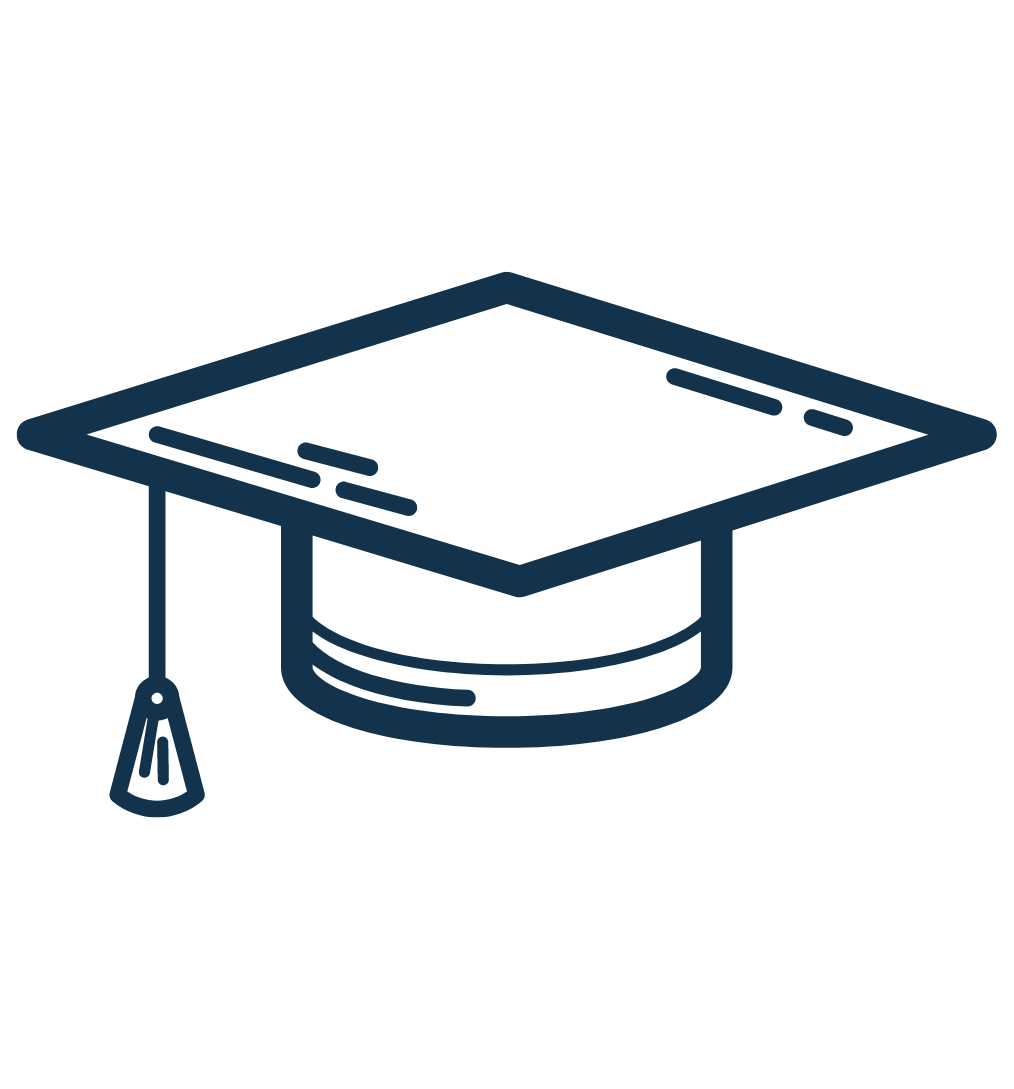
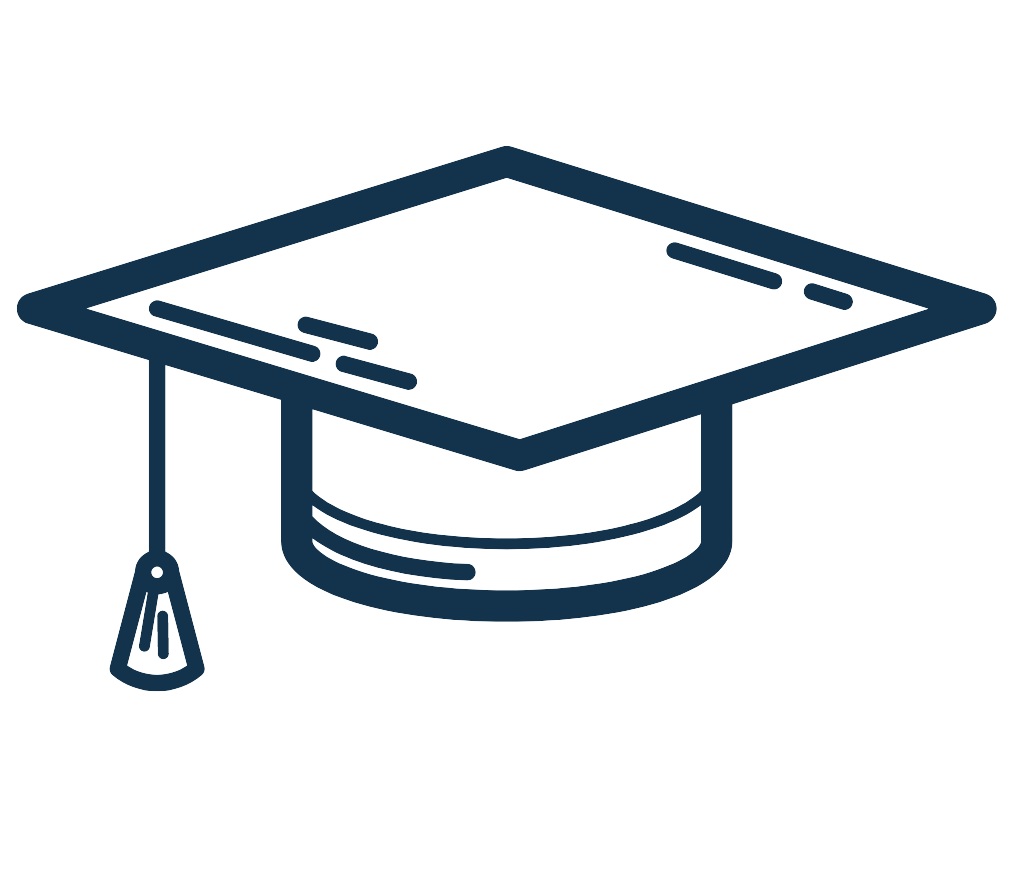
Automatyczny commit

Changed region(s): [[0.0, 0.1548, 1.0, 0.5573], [0.2751, 0.5573, 0.7337, 0.7122], [0.0917, 0.6193, 0.214, 0.805]]

diff --git a/BazaWiedzy.html b/BazaWiedzy.html
@@ -268,7 +268,7 @@
                 Nasze <span class="HighlightV1">szkolenia</span> kiedy tylko chcesz.
             </h1> 
         </div>
-        <img src="https://hicior.github.io/Calendesk/images/Szkolenie-ikonka.svg" class="Right-Side-Image" alt="Descriptive text for the image"/>
+        <img src="https://hicior.github.io/Calendesk/images/Szkolenie-ikonga.png" class="Right-Side-Image" alt="Descriptive text for the image"/>
     </div>
     </div>
     <!-- KARTY -->
